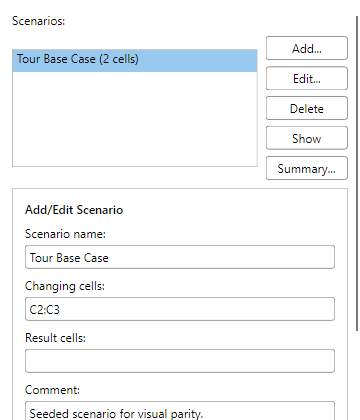
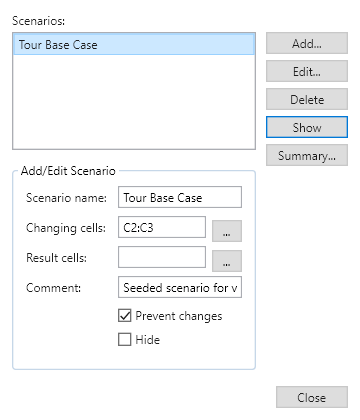
Refresh FreeX Scenario Manager visual evidence

diff --git a/docs/parity/avalonia-wpf-cross-app-dashboard.md b/docs/parity/avalonia-wpf-cross-app-dashboard.md
@@ -8,7 +8,7 @@ Generated by `tools/Generate-CrossAppParityDashboard.ps1` from existing generate
 
 | App | Primary evidence | Current generated state | Next slice |
 |---|---|---|---|
-| FreeX | Functional matrix, classifier, dialog inventory, dialog visual evidence, command surface | 546 functional commands; 540 command inventory parity; 0 Avalonia-missing; 0 real classified binding gaps; 0 catalog-backed pseudo-gallery rows (0 conditional-format, 0 font/border, 0 accounting-symbol); 57/57 dialog routes captured on WPF and Avalonia; 94 paired screenshot surface ids, 0 Avalonia-only ids, 0 WPF-only ids; 0 scale-aware dimension mismatches; 0 unresolved high-delta visual review candidates at triage score >= 0.4 (highest 0.103523); 28 raw PNG pixel dimension mismatches, of which 28 normalize by capture DPI. These are coverage/triage metrics, not a visual-parity claim. | Command/dialog route coverage is complete for the generated inputs: all 0 pseudo-gallery rows are catalog-backed in classifier evidence (0 conditional-format rows over 38 runtime catalog items, 0 font/border rows, and 0 accounting-symbol rows), and dialog screenshot evidence has 94 paired WPF/Avalonia manifest surface ids with 0 Avalonia-only ids. This is coverage and size-comparability evidence, not visual parity. The paired screenshots retain 0 unresolved high-delta visual review candidates at triage score >= 0.4 (highest 0.103523); keep those candidates separate from 0 scale-aware dimension mismatch rows and 28 raw PNG pixel dimension mismatches. |
+| FreeX | Functional matrix, classifier, dialog inventory, dialog visual evidence, command surface | 546 functional commands; 540 command inventory parity; 0 Avalonia-missing; 0 real classified binding gaps; 0 catalog-backed pseudo-gallery rows (0 conditional-format, 0 font/border, 0 accounting-symbol); 57/57 dialog routes captured on WPF and Avalonia; 94 paired screenshot surface ids, 0 Avalonia-only ids, 0 WPF-only ids; 0 scale-aware dimension mismatches; 0 unresolved high-delta visual review candidates at triage score >= 0.4 (highest 0.103141); 28 raw PNG pixel dimension mismatches, of which 28 normalize by capture DPI. These are coverage/triage metrics, not a visual-parity claim. | Command/dialog route coverage is complete for the generated inputs: all 0 pseudo-gallery rows are catalog-backed in classifier evidence (0 conditional-format rows over 38 runtime catalog items, 0 font/border rows, and 0 accounting-symbol rows), and dialog screenshot evidence has 94 paired WPF/Avalonia manifest surface ids with 0 Avalonia-only ids. This is coverage and size-comparability evidence, not visual parity. The paired screenshots retain 0 unresolved high-delta visual review candidates at triage score >= 0.4 (highest 0.103141); keep those candidates separate from 0 scale-aware dimension mismatch rows and 28 raw PNG pixel dimension mismatches. |
 | FreeW | Generated command inventory plus dialog rendered evidence | 940 commands; 490 shared-profile; 0 actionable WPF-missing; 0 actionable Avalonia-missing; 402 profile-shape-only; 43 command-id aliases; 5 platform-only; 0 deferred; 283 rendered comparison rows | Backstage print/export, WordArt/watermark, table/page-composition, shape/object, SmartArt polygon, and chart visual proof now have paired WPF/Avalonia renderer contracts plus no-Word real-capture smoke runs; chart proof also validates shared chart data signatures across hosts. All-up no-Word runner fallback drift is classified as runner evidence hygiene, and the standalone no-Word runner now writes a post-summary readiness manifest with comparable scenario IDs, candidate Word PNG baseline paths, remaining blocker IDs, and an explicit no-authoritative-Word-PNG-parity claim. Next FreeW evidence slices are the same runs with real Word PNG baselines on a Word-capable host and broader Word-authoritative drawing/object/chart/table comparisons. |
 | FreeP | Generated command inventory plus dialog/whole-window rendered evidence | 620 commands; 620 shared-profile; 0 actionable WPF-missing; 0 actionable Avalonia-missing; 0 platform-only; 103 workflow evidence rows; 61 paired rendered scenarios | Layout picker, table picker, rich inline table/text editing, shared visible list galleries, picture-bullet import/rendering plus picker/media authoring, slide-pane reorder, bottom New Slide, notes-page preview/PDF rendering, fixed-layout PDF connector, image, triangle-arrowhead, rotation, ellipse, picture-frame/crop/alpha/color-effect, shape-opacity export, and PDF visual-baseline readiness with WPF/Avalonia page-raster artifact patterns plus paired diff-report targets, export/backstage package-handoff, presenter recording backend contracts plus capture-adapter readiness and paired backend injection, captured PPTX media and generated WebVTT caption artifact authoring, focused PowerPoint-native caption package retention including external caption relationship metadata, native media/caption sidecar package depth, and caption relationship-id collision remapping, shared chart number/date label rendering plus edge/mixed manual-layout bounds, surface grid plus projected contour/wireframe/3-D surface geometry plus 3-D pie lower-depth rendering, stock OHLC capture-readiness metadata, and PowerPoint/WPF/Avalonia chart baseline capture readiness, SmartArt basic hierarchy plus vertical bullet list plus basic cycle plus radial cycle plus gear cycle plus text cycle plus basic, continuous block, segmented, chevron, alternating, funnel, circle, and arrow-ribbon process plus basic block list plus vertical box list plus stacked list plus basic pyramid plus bounded pictureCaptionList live layout plus basic/radial/stacked Venn and target-list relationship layouts plus shared outline reorder/promote/demote editing, data-part authoring, text-pane/cache-regeneration authoring, and matching thin WPF/Avalonia text-pane host controls with bounded keyboard routes, header/footer placeholder creation plus inherited layout/master geometry, title-slide suppression, fixed/auto date options, shared OMML fraction-type variants, matrix spacing/base alignment, delimiter grow semantics, accent/bar render-plan coverage, manual line breaks, boxed equation-array alignment points, transparent phantom spacing classes, pre-sub/superscript layout, matrix empty-cell placeholder handling, and group-character vertical justification, ink execution with repeated custom-show route retention, modern comments/review with shared mention candidate and insertion planning, accessibility/proofing workflow depth, animation-pane row/playback workflow evidence, paired real Windows microphone narration handoff, paired Windows camera handoff readiness, paired default no-COM camera handoff/package-target readiness without encoded-payload or PowerPoint-baseline claims, deterministic encoded camera media payload artifacts through host-specific PPTX package paths, and paired OS-backed unavailable-hardware/no-device recording evidence now have WPF/Avalonia no-COM evidence paths. Continue workflow-depth slices in live capture on real microphone/camera hardware, actual local default no-COM camera video encoding that produces non-empty mp4 payloads, calibrated chart-family acceptance thresholds and remaining type-specific decisions beyond the current PowerPoint baseline-depth/type/label captures, broader SmartArt layout families, remaining OMML constructs/alignment semantics and PowerPoint-authoritative math visual-baseline coverage, broader real-deck PowerPoint-native media/caption baselines, actual PowerPoint PDF/PNG capture and calibrated PDF visual diffs on a COM-capable host, and PowerPoint-authoritative animation-pane visual/playback baselines. |
 

diff --git a/docs/parity/dialog-visual-evidence-summary.md b/docs/parity/dialog-visual-evidence-summary.md
@@ -62,7 +62,6 @@ Outliers are ranked by a deterministic triage score: normalized 32x32 ARGB sampl
 
 | Surface id | WPF logical size | Avalonia logical size | Raw PNG sizes | Bucket | Evidence flag | Score | Sample delta | Luma delta | Non-bg delta |
 | --- | ---: | ---: | --- | --- | --- | ---: | ---: | ---: | ---: |
-| dialog.ScenarioManager | 360x420 | 360x420 | 540x630 px @ 144 DPI vs 360x420 px @ 96 DPI |  |  | 0.104 | 0.053 | 0.006 | 0.044 |
 | dialog.ErrorChecking | 720x420 | 720x420 | 1080x630 px @ 144 DPI vs 720x420 px @ 96 DPI |  |  | 0.103 | 0.030 | 0.006 | 0.066 |
 | dialog.FormatCells.Border | 620x597 | 620x597 | 620x597 px @ 96 DPI vs 620x597 px @ 96 DPI |  |  | 0.099 | 0.036 | 0.003 | 0.060 |
 | dialog.AccessibilityChecker | 360x520 | 360x520 | 360x520 px @ 96 DPI vs 360x520 px @ 96 DPI |  |  | 0.099 | 0.040 | 0.023 | 0.036 |
@@ -72,6 +71,7 @@ Outliers are ranked by a deterministic triage score: normalized 32x32 ARGB sampl
 | dialog.FindReplace | 720x430 | 720x430 | 720x430 px @ 96 DPI vs 720x430 px @ 96 DPI |  |  | 0.095 | 0.015 | 0.005 | 0.075 |
 | dialog.FindReplace.Find | 720x430 | 720x430 | 720x430 px @ 96 DPI vs 720x430 px @ 96 DPI |  |  | 0.095 | 0.015 | 0.005 | 0.075 |
 | dialog.InsertHyperlink | 560x300 | 560x300 | 840x450 px @ 144 DPI vs 560x300 px @ 96 DPI |  |  | 0.095 | 0.046 | 0.008 | 0.041 |
+| dialog.Options.Formulas | 744x777 | 744x777 | 744x777 px @ 96 DPI vs 744x777 px @ 96 DPI |  |  | 0.093 | 0.033 | 0.006 | 0.054 |
 
 ## Scale-Aware Dimension Mismatch Details
 
@@ -168,7 +168,7 @@ These rows have a DPI-normalized checked-in PNG size that disagrees with the dia
 | dialog.RemoveDuplicates | dialog.RemoveDuplicates.png | 360x360 | 360x360 px @ 96 DPI | True | dialog.RemoveDuplicates.png | 360x360 | 360x360 px @ 96 DPI | True | True | 0.057 |
 | dialog.RenameSheet | dialog.RenameSheet.png | 340x150 | 510x225 px @ 144 DPI | True | dialog.RenameSheet.png | 340x150 | 340x150 px @ 96 DPI | True | True | 0.062 |
 | dialog.SaveAsWorkbook | dialog.SaveAsWorkbook.png | 640x420 | 640x420 px @ 96 DPI | True | dialog.SaveAsWorkbook.png | 640x420 | 640x420 px @ 96 DPI | True | True | 0.036 |
-| dialog.ScenarioManager | dialog.ScenarioManager.png | 360x420 | 540x630 px @ 144 DPI | True | dialog.ScenarioManager.png | 360x420 | 360x420 px @ 96 DPI | True | True | 0.104 |
+| dialog.ScenarioManager | dialog.ScenarioManager.png | 360x420 | 540x630 px @ 144 DPI | True | dialog.ScenarioManager.png | 360x420 | 360x420 px @ 96 DPI | True | True | 0.063 |
 | dialog.SelectDataSource | dialog.SelectDataSource.png | 620x500 | 930x750 px @ 144 DPI | True | dialog.SelectDataSource.png | 620x500 | 620x500 px @ 96 DPI | True | True | 0.075 |
 | dialog.SelectionPane | dialog.SelectionPane.png | 520x440 | 520x440 px @ 96 DPI | True | dialog.SelectionPane.png | 520x440 | 520x440 px @ 96 DPI | True | True | 0.044 |
 | dialog.ShapeEffects | dialog.ShapeEffects.png | 380x190 | 570x285 px @ 144 DPI | True | dialog.ShapeEffects.png | 380x190 | 380x190 px @ 96 DPI | True | True | 0.032 |

diff --git a/docs/parity/avalonia-parity-wave107-freex-scenario-manager-20260802.md b/docs/parity/avalonia-parity-wave107-freex-scenario-manager-20260802.md
@@ -34,12 +34,15 @@ capture in `docs/parity/dialog-visual-assets/wpf-capture/dialog.ScenarioManager.
   emitted a valid `360x420` `dialog.ScenarioManager.png`, found the neutral
   WPF-style button surface and group border, and confirmed rendered pixels in
   the bottom rows.
+- A fresh production Avalonia capture was promoted into the committed evidence
+  set. Regenerating `dialog-visual-evidence-summary.json` reduced the Scenario
+  Manager triage score from `0.103523` to `0.063362`; its non-background delta
+  fell from `0.044216` to `0.015949`, removing it from the leading outliers.
 - `git diff --check` passed for the scoped changes.
 
-## Evidence limitation
+## Remaining limitation
 
-Docker was intentionally not run for this slice. The existing paired PNGs and
-the JSON triage score were therefore not regenerated here; the render test is
-current Avalonia headless evidence, while WPF geometry comes from the
-authoritative WPF source and committed capture. A fresh cross-host pixel score
-should be regenerated in the next visual-evidence pass.
+Docker was intentionally not run for this slice. The paired score uses the
+current Avalonia production capture and the committed WPF authority capture;
+it is deterministic prioritization evidence, not a human claim of exact visual
+identity. Cross-framework text and control rasterization differences remain.
